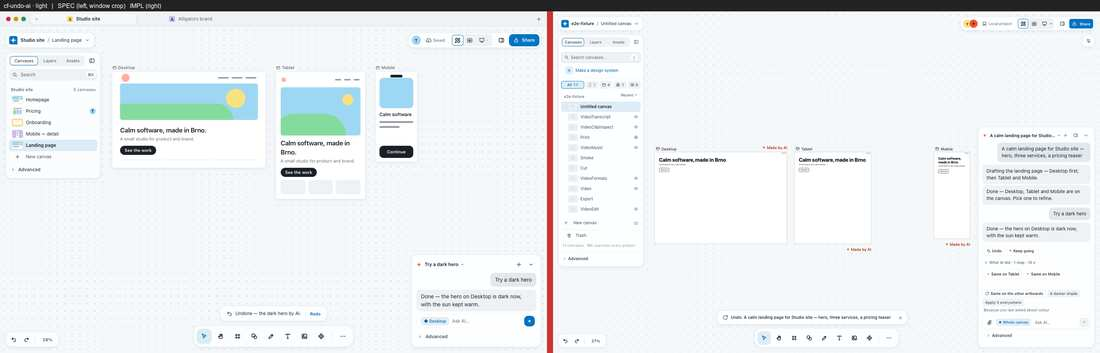
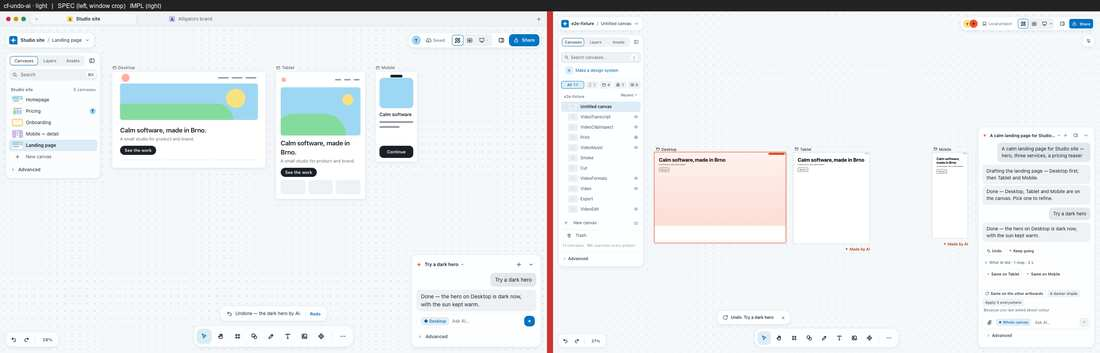
p8-bug-aiundo: ⌘Z the moment an AI run says Done undoes that run, not the entry before
The run's turn ends (Done in the chat), then the registry publishes its stage: the local home waits
for the watcher's last write (aiSettleMs) and drains before the run becomes an action (0.5-1.6 s
quiet, more under load). A ⌘Z in that window read the undo stack without the run and undid the
previous entry (the first draft); the run's own publish was then rejected under it.

The registry now announces a run as LANDING from its turn-end / Stop transition (stage.landing),
runStageHooks tracks it per project runtime, and GET /_api/project/undo-stack (the ⌘Z path's
read) waits for landing runs, bounded by LANDING_WAIT_MS. Fail-first test
test/p8-ai-undo-landing.test.ts (real local home + registry + routes + the shell's ⌘Z store).

Harness _d-harness-g1-final/s01ai.mjs waits for the run's Done + the dark hero (a fixed 6 s caught
a loaded machine mid-run) and for the undone frame; cf-undo-before / cf-undo-ai pairs re-shot.

diff --git a/apps/studio/test/p8-ai-undo-landing.test.ts b/apps/studio/test/p8-ai-undo-landing.test.ts
@@ -1,0 +1,184 @@
+// P8 bug (board 01 cf-undo-ai) — ⌘Z right after an AI run says "Done" undoes THAT run, never the entry
+// before it.
+//
+// The run's turn ends (the chat shows Done), then the registry publishes its stage: the local home
+// waits for the watcher's last write (`aiSettleMs`) and drains (`settled()`) before the run becomes
+// an action — 0.5–1.6 s on a quiet machine, more under load. A ⌘Z in that window read the undo
+// stack without the run on it and undid the person's previous entry (the first draft), and the
+// run's own publish was then rejected under it. The ⌘Z path's read (`GET /_api/project/undo-stack`)
+// now waits for a run that is landing (V2-1.5 §5.4: "Your run lands → one new entry").
+//
+// Real parts: the local home (sync/local-kernel.ts), the run registry (ai/runs.ts) with its stage
+// hooks (routes/project-undo.ts runStageHooks), the undo routes, and the shell's ⌘Z store
+// (client/v2/undo/use-undo-projection.jsx) talking to those routes.
+
+import { afterAll, expect, test } from 'bun:test';
+import { mkdirSync, mkdtempSync, readFileSync, rmSync, writeFileSync } from 'node:fs';
+import { tmpdir } from 'node:os';
+import path from 'node:path';
+
+import { createLocalLeaseHome } from '../ai/lease-home.ts';
+import { createRunRegistry } from '../ai/runs.ts';
+import { createUndoProjection } from '../client/v2/undo/use-undo-projection.jsx';
+import { createProjectUndoRoutes, runStageHooks, runsLanded } from '../routes/project-undo.ts';
+import { hashBytes } from '../sync/echo-guard.ts';
+import { type LocalHome, openLocalHome } from '../sync/local-kernel.ts';
+
+const dirs: string[] = [];
+const homes: LocalHome[] = [];
+afterAll(() => {
+  for (const h of homes) h.close();
+  for (const d of dirs) rmSync(d, { recursive: true, force: true });
+});
+
+const canvas = (hero: string) => `import { DCArtboard } from '@maude/canvas-lib';
+
+export default function K() {
+  return (
+    <div>
+      <DCArtboard id="desktop" width={1440} height={900}>
+        <div style={{ background: "${hero}" }}>
+          <h1>Calm software</h1>
+        </div>
+      </DCArtboard>
+    </div>
+  );
+}
+`;
+const BLANK = `import { DesignCanvas } from '@maude/canvas-lib';
+
+export default function K() {
+  return <DesignCanvas />;
+}
+`;
+const REL = 'ui/landing.tsx';
+const REPO_REL = `.design/${REL}`;
+
+async function rig() {
+  const root = mkdtempSync(path.join(tmpdir(), 'maude-ai-undo-landing-'));
+  dirs.push(root);
+  const designRoot = path.join(root, '.design');
+  mkdirSync(path.join(designRoot, 'ui'), { recursive: true });
+  const file = path.join(designRoot, REL);
+  writeFileSync(file, BLANK);
+  const h = openLocalHome({
+    designRoot,
+    designRel: '.design',
+    canvasGroups: () => [{ path: 'ui' }],
+    machine: { id: 'm_mac_one', name: 'Mac one' },
+    bootId: 'boot-1',
+    lockRetryMs: 0,
+    settleMs: 5,
+    // the studio's default beat for the watcher's last write — the window this bug lived in
+    aiSettleMs: 250,
+    log: { warn() {}, error() {} },
+  });
+  homes.push(h);
+  await h.ready();
+  const runtime = h.runtime;
+  const reg = createRunRegistry({
+    designRoot: null,
+    home: createLocalLeaseHome({ actor: 'you' }),
+    autoRenew: false,
+    stage: runStageHooks({ control: () => runtime as never }),
+  });
+  const specs = createProjectUndoRoutes({ control: () => runtime as never, designRel: '.design' });
+  const request = async (method: string, url: string, body?: unknown) => {
+    const u = new URL(url, 'http://studio.test');
+    const spec = specs.find((s) => s.method === method && s.path === u.pathname);
+    if (!spec) return { status: 404, body: null };
+    const res = await spec.handle(
+      new Request(u, {
+        method,
+        ...(body !== undefined
+          ? { body: JSON.stringify(body), headers: { 'content-type': 'application/json' } }
+          : {}),
+      }),
+      {} as never
+    );
+    return { status: res.status, body: await res.json().catch(() => null) };
+  };
+  const toasts: string[] = [];
+  const shell = createUndoProjection({ request, announce: (t: string) => toasts.push(t) });
+
+  /** One chat run that writes `body` as its tool; `end` = the turn ending (the chat's Done). */
+  async function aiRun(label: string, body: string) {
+    const rec = await reg.ask({ origin: 'maude-chat', chatId: 'c1', label, lazy: true });
+    await reg.started(rec.runId);
+    runtime.beginAiAction?.(`acp:c1`, label, { runId: rec.runId, chatId: 'c1' });
+    writeFileSync(file, body);
+    h.observe(REL);
+    runtime.claimAiWrite?.(rec.runId, REPO_REL, hashBytes(body));
+    return {
+      runId: rec.runId,
+      /** the registry's turn-end: publishing starts, NOT awaited (as acp/index.ts runTurn) */
+      end: () => reg.turnEnded(rec.runId, 'done'),
+    };
+  }
+  return { h, reg, shell, toasts, file, aiRun };
+}
+
+test('⌘Z the moment an AI run says Done undoes that run as one step, not the first draft', async () => {
+  const { reg, shell, toasts, file, aiRun } = await rig();
+  // The person opened the canvas, then asked for the first draft; it landed.
+  await shell.open(REPO_REL);
+  const first = await aiRun('A calm landing page for Studio site', canvas('#fff'));
+  await first.end();
+  // "Try a dark hero": the agent writes, its turn ends (Done in the chat) — and ⌘Z right then.
+  const dark = await aiRun('Try a dark hero', canvas('#14181d'));
+  const ending = dark.end();
+  const r = (await shell.undo(REPO_REL)) as { ok?: boolean };
+  await ending;
+  expect(r.ok).toBe(true);
+  expect(toasts).toEqual(['Undo: Try a dark hero']);
+  // the dark hero is gone; the first draft stays
+  const disk = readFileSync(file, 'utf8');
+  expect(disk).toContain('background: "#fff"');
+  expect(disk).toContain('<DCArtboard id="desktop"');
+  reg.close();
+});
+
+test('a run that never finishes publishing holds ⌘Z for at most the bound', async () => {
+  const runtime = {
+    endAiAction: () => new Promise<never>(() => {}), // a hung publish (an unreachable hub)
+  };
+  const hooks = runStageHooks({ control: () => runtime as never });
+  void hooks.publish(
+    { runId: 'r_hung' },
+    { partial: false, fence: { runId: 'r_hung', leases: [] } }
+  );
+  const t0 = Date.now();
+  await runsLanded(runtime, 60);
+  expect(Date.now() - t0).toBeLessThan(1000);
+  // nothing landing: no wait at all
+  const t1 = Date.now();
+  await runsLanded({}, 5_000);
+  expect(Date.now() - t1).toBeLessThan(100);
+});
+
+test('the undo stack the ⌘Z path reads already lists a run whose turn has just ended', async () => {
+  const { h, reg, aiRun } = await rig();
+  const first = await aiRun('A calm landing page for Studio site', canvas('#fff'));
+  await first.end();
+  const dark = await aiRun('Try a dark hero', canvas('#14181d'));
+  const ending = dark.end();
+  const specs = createProjectUndoRoutes({
+    control: () => h.runtime as never,
+    designRel: '.design',
+  });
+  const spec = specs.find((s) => s.path === '/_api/project/undo-stack');
+  const res = await spec!.handle(
+    new Request(
+      `http://studio.test/_api/project/undo-stack?canvas=${encodeURIComponent(REPO_REL)}`
+    ),
+    {} as never
+  );
+  const view = (await res.json()) as { entries: Array<{ label: string; who: string }> };
+  await ending;
+  // newest first (projection.js historyRows): the run that just ended, then the first draft
+  expect(view.entries.map((e) => [e.who, e.label])).toEqual([
+    ['ai', 'Try a dark hero'],
+    ['ai', 'A calm landing page for Studio site'],
+  ]);
+  reg.close();
+});

diff --git a/apps/studio/routes/project-undo.ts b/apps/studio/routes/project-undo.ts
@@ -235,6 +235,47 @@ type RunFenceLike = {
 };
 
 /**
+ * P8 (board 01 cf-undo-ai) — runs that are LANDING: their turn ended (the chat says Done) and their
+ * stage is being published. Keyed by the project runtime, so the stage hooks (which see a run end)
+ * and the undo routes (which read the stack) meet without new wiring: both hold `control()`.
+ */
+const landingRuns = new WeakMap<object, Set<Promise<unknown>>>();
+
+/** How long the ⌘Z path's read waits for a landing run before it answers with what it has. */
+export const LANDING_WAIT_MS = 5_000;
+
+function trackLanding(runtime: unknown, p: Promise<unknown>): void {
+  if (!runtime || typeof runtime !== 'object') return;
+  const own = landingRuns.get(runtime) ?? new Set<Promise<unknown>>();
+  landingRuns.set(runtime, own);
+  const settled = p.then(
+    () => {},
+    () => {}
+  );
+  own.add(settled);
+  void settled.then(() => own.delete(settled));
+}
+
+/**
+ * Resolves once every run landing on `runtime` has published (or `ms` passed). A ⌘Z the moment an
+ * AI run says Done must see that run on the stack: without this wait it read the stack a beat
+ * before the run's action existed and undid the entry before it (V2-1.5 §5.4 "Your run lands → one
+ * new entry").
+ */
+export async function runsLanded(runtime: unknown, ms = LANDING_WAIT_MS): Promise<void> {
+  const set = runtime && typeof runtime === 'object' ? landingRuns.get(runtime) : undefined;
+  if (!set?.size) return;
+  let timer: ReturnType<typeof setTimeout> | undefined;
+  await Promise.race([
+    Promise.all([...set]),
+    new Promise<void>((r) => {
+      timer = setTimeout(r, ms);
+    }),
+  ]);
+  clearTimeout(timer);
+}
+
+/**
  * S5.5b — the run registry's `stage` hooks (ai/runs.ts `RegistryOptions.stage`): THE one place a
  * registry run's stage ends. The registry decides the outcome — a turn that ended publishes, Stop
  * / Quit publishes partial (`stopped`), an error or a lost lease holds — and the stage is named by
@@ -245,18 +286,32 @@ export function runStageHooks(deps: {
   control: () => StageRuntime | null | undefined;
   emit?: (event: string, payload: unknown) => void;
 }) {
+  async function publishNow(
+    runtime: StageRuntime | null | undefined,
+    rec: { runId: string },
+    o: { partial: boolean; fence: RunFenceLike }
+  ): Promise<{ status: 'accepted' | 'rejected'; code?: string } | undefined> {
+    const r = await runtime?.endAiAction?.(rec.runId, o.partial ? 'stopped' : 'done', {
+      fence: o.fence,
+    });
+    if (!r || r.status === 'discarded') return undefined;
+    if (r.status === 'accepted' && r.actionId)
+      await announceAction(deps, r.actionId, r.touched ?? {}).catch(() => {});
+    return { status: r.status, ...(r.code ? { code: r.code } : {}) };
+  }
   return {
-    async publish(
+    /** The registry announces a run that starts publishing (its turn ended, Stop): ⌘Z waits on it. */
+    landing(_rec: { runId: string }, landed: Promise<void>): void {
+      trackLanding(deps.control(), landed);
+    },
+    publish(
       rec: { runId: string },
       o: { partial: boolean; fence: RunFenceLike }
     ): Promise<{ status: 'accepted' | 'rejected'; code?: string } | undefined> {
-      const r = await deps
-        .control()
-        ?.endAiAction?.(rec.runId, o.partial ? 'stopped' : 'done', { fence: o.fence });
-      if (!r || r.status === 'discarded') return undefined;
-      if (r.status === 'accepted' && r.actionId)
-        await announceAction(deps, r.actionId, r.touched ?? {}).catch(() => {});
-      return { status: r.status, ...(r.code ? { code: r.code } : {}) };
+      const runtime = deps.control();
+      const p = publishNow(runtime, rec, o);
+      trackLanding(runtime, p);
+      return p;
     },
     async hold(rec: { runId: string }): Promise<void> {
       await deps.control()?.endAiAction?.(rec.runId, 'failed');
@@ -295,6 +350,8 @@ export function createProjectUndoRoutes(deps: ProjectUndoDeps): RouteSpec[] {
         const since = Number(url.searchParams.get('since') ?? 0);
         const runtime = deps.control();
         if (!runtime?.acceptedHistory) return json(200, { ok: false, reason: 'legacy' });
+        // P8 (board 01 cf-undo-ai) — a run whose turn just ended is on the stack before ⌘Z reads it.
+        await runsLanded(runtime);
         const rows = await runtime
           .acceptedHistory({ path: repoRel, limit: 200, mine: true })
           .catch(() => undefined);

diff --git a/apps/studio/ai/runs.ts b/apps/studio/ai/runs.ts
@@ -124,6 +124,12 @@ export interface RegistryOptions {
       }
     ): PublishResult | undefined | Promise<PublishResult | undefined>;
     hold?(rec: RunRecord): void | Promise<void>;
+    /**
+     * P8 (board 01 cf-undo-ai) — a turn-end / Stop starts publishing the run: `landed` settles once
+     * its publish effect is over (accepted, rejected or lost). The ⌘Z path's read of the undo stack
+     * waits on it, so a ⌘Z the moment the chat says Done undoes THIS run, never the entry before.
+     */
+    landing?(rec: RunRecord, landed: Promise<void>): void;
   };
   /** ctx.bus.emit — `ai:runs {seq}` and the derived v1 `ai-activity` */
   emit?: (event: string, payload: unknown) => void;
@@ -338,7 +344,24 @@ export function createRunRegistry(opts: RegistryOptions) {
     if ('refused' in r) return null;
     persist(r.rec);
     changed();
-    return { rec: r.rec, done: carryOut(prev, r.rec, r.effects) };
+    // Announced synchronously, with the transition: the run is "landing" from its turn's end on,
+    // before the first await of its effects (confirm), not from the publish call.
+    let landed = (): void => {};
+    const publishes = r.effects.some((e) => e === 'publish' || e === 'publish-partial');
+    if (publishes && opts.stage?.landing)
+      opts.stage.landing(
+        prev,
+        new Promise<void>((res) => {
+          landed = res;
+        })
+      );
+    const done = carryOut(prev, r.rec, r.effects, () => landed());
+    if (publishes)
+      done.then(
+        () => landed(),
+        () => landed()
+      );
+    return { rec: r.rec, done };
   }
 
   async function transition(runId: string, ev: RunEvent): Promise<RunRecord | null> {
@@ -363,7 +386,13 @@ export function createRunRegistry(opts: RegistryOptions) {
     return t.rec;
   }
 
-  async function carryOut(prev: RunRecord, rec: RunRecord, effects: RunEffect[]) {
+  async function carryOut(
+    prev: RunRecord,
+    rec: RunRecord,
+    effects: RunEffect[],
+    /** the publish effect is over (see `stage.landing`) */
+    onLanded?: () => void
+  ) {
     let lost = false;
     for (const eff of effects) {
       if (lost && eff !== 'end-leases') continue;
@@ -401,6 +430,7 @@ export function createRunRegistry(opts: RegistryOptions) {
             opts.stage?.publish?.(prev, { partial: eff === 'publish-partial', fence })
           ).catch(() => undefined);
           if (res?.code === 'lease-fenced') lost = true;
+          onLanded?.();
           break;
         }
         case 'hold':
